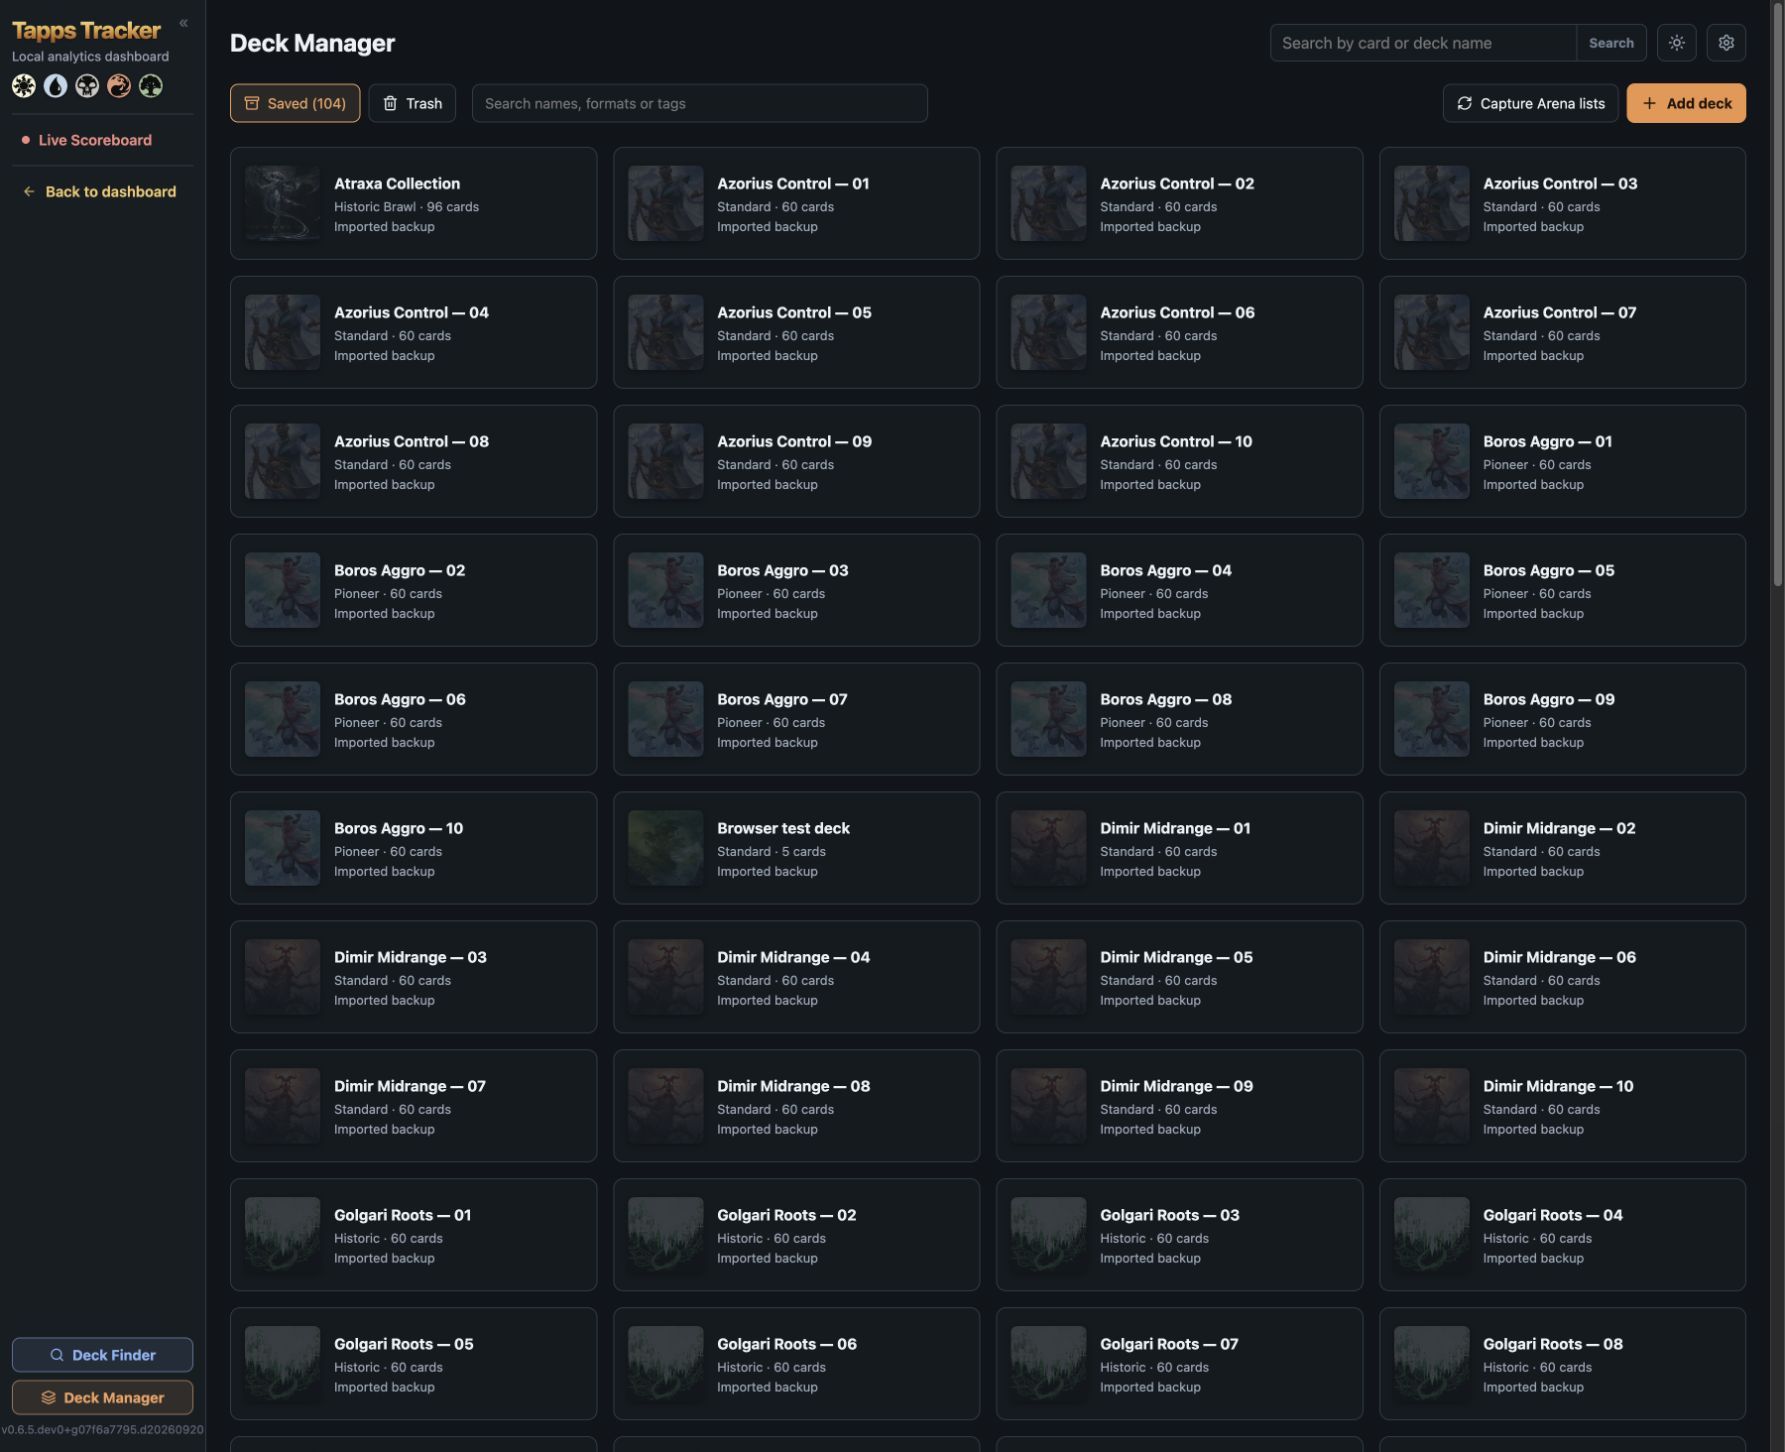
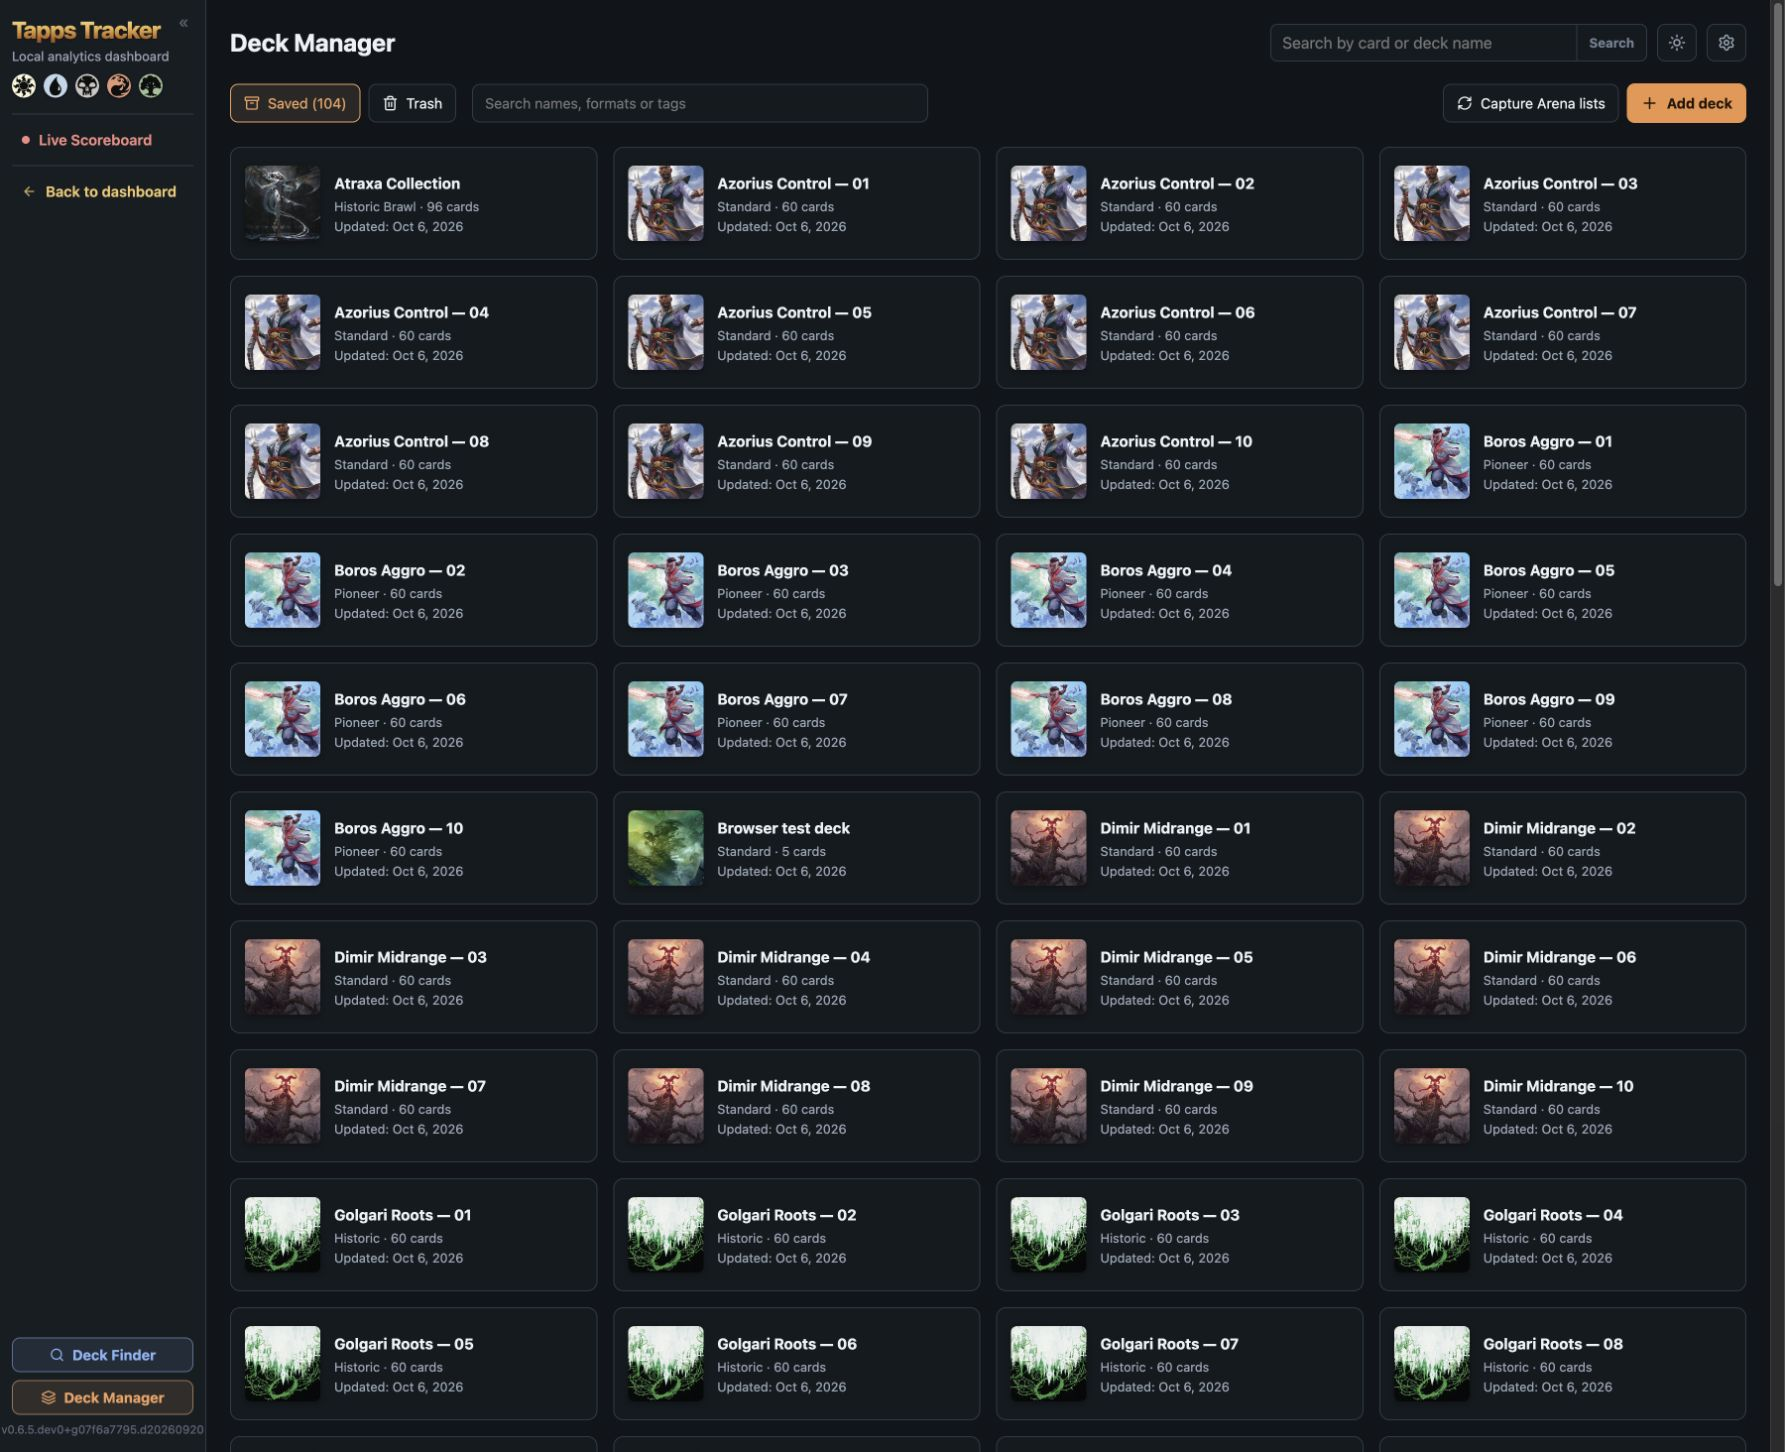
Show update dates on saved deck tiles

diff --git a/ui/src/components/DeckManagerPage.tsx b/ui/src/components/DeckManagerPage.tsx
@@ -187,7 +187,7 @@ export function DeckManagerPage() {
             <span className="deck-manager-tile-text">
               <strong>{deck.name}</strong>
               <small>{deck.format_name || 'Format not specified'} · {deck.main_count} cards</small>
-              <small>{deck.tags.join(' · ') || sourceLabels[deck.source] || 'Saved deck'}</small>
+              <small>Updated: <time dateTime={deck.updated_at} title={formatDateTime(deck.updated_at)}>{new Date(deck.updated_at).toLocaleDateString(undefined, { month: 'short', day: 'numeric', year: 'numeric' })}</time></small>
             </span>
           </button>
         ))}

diff --git a/ui/src/components/DeckManagerPage.test.tsx b/ui/src/components/DeckManagerPage.test.tsx
@@ -12,7 +12,7 @@ vi.mock('../deckManagerApi', () => ({
 }));
 
 const saved: ManagedDeck = { id: 'deck-a', name: 'Any format deck', format_name: 'Standard',
-  notes: '', tags: [], current_revision_id: 'new', trashed_at: null, saved_at: '2026-10-06T12:00:00Z',
+  notes: '', tags: [], current_revision_id: 'new', trashed_at: null, saved_at: '2026-10-06T12:00:00Z', updated_at: '2026-10-06T12:00:00Z',
   source: 'import', completeness: 'text', main_count: 60, art_card: null };
 const detail: ManagedDeckDetail = { ...saved, revision_id: 'new',
   deck: { name: saved.name, format_name: 'Standard', source: 'import', completeness: 'text',

diff --git a/ui/src/deckManagerApi.ts b/ui/src/deckManagerApi.ts
@@ -16,6 +16,7 @@ export interface ManagedDeck {
   current_revision_id: string;
   trashed_at: string | null;
   saved_at: string;
+  updated_at: string;
   source: string;
   completeness: string;
   main_count: number;

diff --git a/docs/DECK_MANAGER.md b/docs/DECK_MANAGER.md
@@ -29,7 +29,8 @@ Unresolved card IDs are preserved and shown as `Card #ID`.
 
 Search names, formats and tags in the full-page deck grid. It shows four columns
 on wide screens, three at medium widths, and fewer on narrow screens, with all
-rows available through normal page scrolling. Click a tile to open a dialog with
+rows available through normal page scrolling. Each tile shows its latest update
+date; hover the date for its full timestamp. Click a tile to open a dialog with
 the deck’s sections, notes and saved revisions. **Save an edited revision…**
 starts from the selected list;
 earlier snapshots remain available. The dialog supports Escape/backdrop dismissal,
